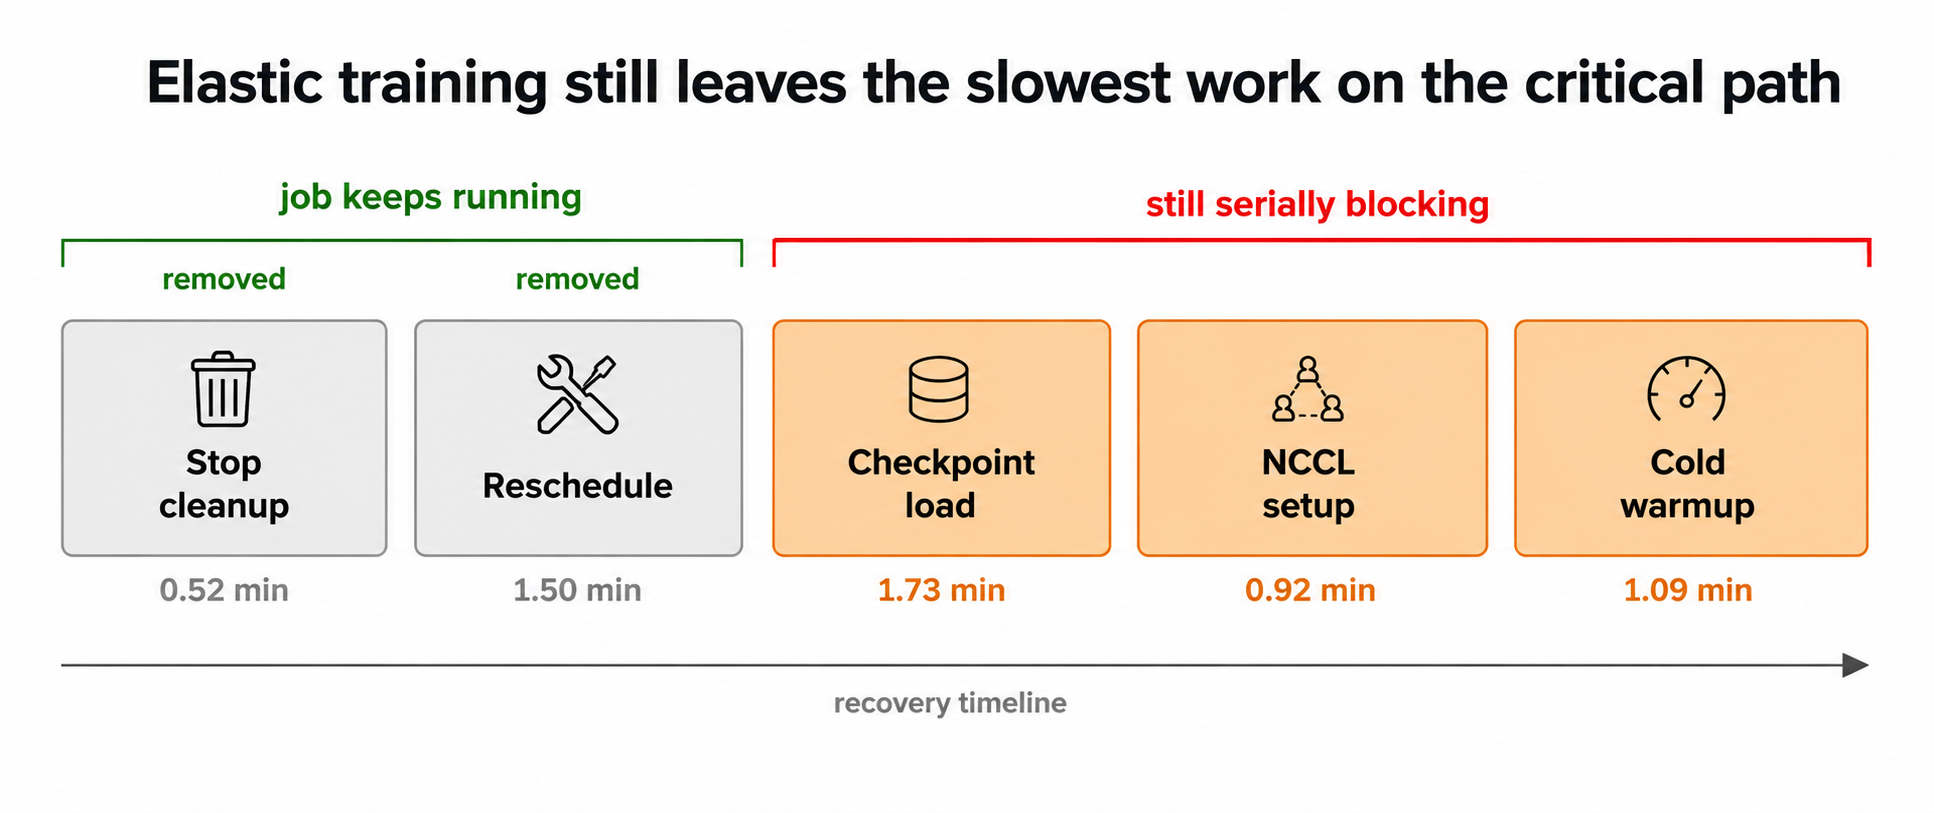
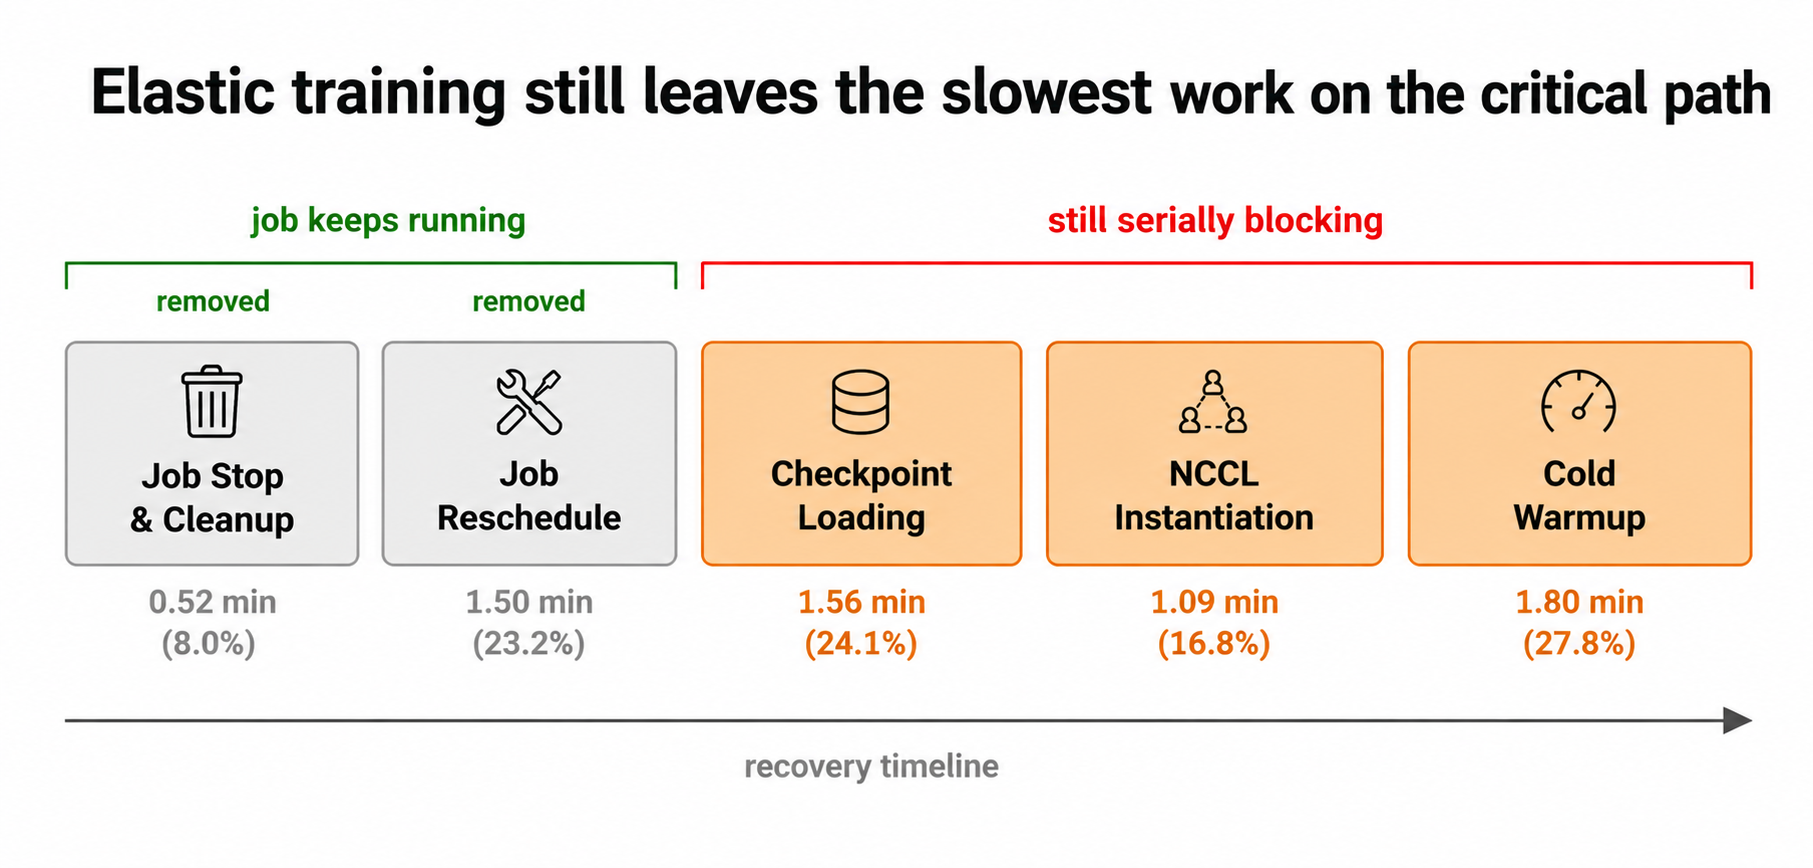
fix the data

diff --git a/src/content/posts/continuum-blog.md b/src/content/posts/continuum-blog.md
@@ -1,5 +1,5 @@
 ---
-title: "When Your AI Training Cluster Crashes at 3 AM: How We Cut Recovery Time to 20 Seconds"
+title: "When Your AI Training Cluster Crashes at 3 AM: Cutting Recovery Time to 20 Seconds"
 slug: continuum-blog
 description: "An educational deep-dive into interruption resilience for large-scale LLM training, and how TrainMover (OSDI '26) reduces downtime to ~20 seconds with zero memory overhead."
 category:
@@ -15,16 +15,16 @@ coverAlt: TrainMover Overview — Two-phase machine migration design
 author: ChonLam Lao
 ---
 
-<p>
+<!-- <p>
 <strong>By: <a href="https://laochanlam.com/">ChonLam Lao</a>, <a href="https://jqgao.me/">Jiaqi Gao</a> and the TrainMover team
-<br>
+<br> -->
 Date: May 14, 2026
 </strong>
 </p>
 
 <div class="tldr">
 <p>
-Training a large language model is a weeks-long marathon across thousands of GPUs. When something breaks — and something always breaks — every GPU stops and waits. We explore why failures are unavoidable at production scale, why recovery is so slow today, and how <strong>TrainMover</strong> — accepted at <strong>OSDI '26</strong> — cuts recovery downtime to <strong>~20 seconds</strong> with <strong>zero additional GPU memory</strong>.
+Training a large language model is a weeks-long marathon across thousands of GPUs. When something breaks — and something always breaks — every GPU stops and waits. This post explores why failures are unavoidable at production scale, why recovery is so slow today, and how <strong>TrainMover</strong> — accepted at <strong>OSDI '26</strong> — cuts recovery downtime to <strong>~20 seconds</strong> with <strong>zero additional GPU memory</strong>.
 </p>
 <p>
 <!-- 📄 Paper: <a href="https://arxiv.org/abs/2412.12636">TrainMover: An Interruption-Resilient Runtime for ML Training</a> <em>(arXiv version; final version to appear at OSDI '26)</em> -->
@@ -35,7 +35,7 @@ Training a large language model is a weeks-long marathon across thousands of GPU
 
 Training a large language model is not a single button press. It is a weeks-long marathon, spread across thousands of GPUs, running in perfect synchrony. When something breaks — and something always breaks — every GPU in the cluster stops and waits. The bill keeps running.
 
-This post explains why this problem is harder than it sounds, why existing approaches leave significant performance on the table, and how our system **TrainMover** reduces interruption downtime to around **20 seconds** — a 10× improvement over prior approaches — while using **zero additional GPU memory**.
+This post explains why this problem is harder than it sounds, why existing approaches leave significant performance on the table, and how **TrainMover** reduces interruption downtime to around **20 seconds** — a 10× improvement over prior approaches — while using **zero additional GPU memory**.
 
 ---
 
@@ -53,27 +53,19 @@ This creates a brutal property: **a single failure halts the entire cluster.**
 
 And failures are not rare. Alibaba's FALCON [^4] reports that 60% of large-scale training jobs experience hardware slowdowns. Meta reports that a 1,024-GPU job has a mean-time-to-failure (MTTF) of just **7.9 hours** [^5]. At 16,000 GPUs, that drops to **2.7 hours** [^1].
 
-The consequences compound with scale:
-
-| Cluster Size | ETTR (Effective Training Time Ratio) | Daily Cost Wasted |
-|:---:|:---:|:---:|
-| 8K GPUs | ~60% | ~$0.58M |
-| 16K GPUs | ~83.5% | significant |
-| 64K GPUs | ~68.2% | ~$3.63M/day |
-
-> **ETTR** is the fraction of time the cluster is actually making training progress, rather than restarting or recovering. An ETTR of 0.6 means 40% of your GPU time is wasted.
-
-The financial stakes are enormous. Training across 16K GPUs with AWS pricing costs $1.44M per day [^12]. A single interruption on an 8,192-GPU job — even with a fully automated recovery stack [^1] — incurs **6.47 minutes of downtime** and **$86,000 in daily waste**.
+The financial stakes are enormous. Training across 16K GPUs with AWS pricing costs $1.44M per day [^12]. A single interruption on an 8,192-GPU job — even with a fully automated recovery stack [^1] — incurs **6.47 minutes of downtime**.
 
 What makes this especially alarming is how non-linearly the damage scales. A restart time of just a few minutes looks tolerable in isolation — but combine it with the MTTF of a large cluster and you get a collapse in effective throughput that accelerates as you add more GPUs.
 
 <p align="center">
-<img src="https://raw.githubusercontent.com/uccl-project/uccl-project.github.io/continuum-blog-post/assets/continuum-blog/scale-throughput-loss.png" alt="Impact of downtime on ETTR at different GPU scales" width="75%"/>
+<img src="/continuum-blog/scale-throughput-loss.png" alt="Impact of downtime on ETTR at different GPU scales" width="75%"/>
 <br>
 <em>ETTR (Effective Training Time Ratio) as a function of cluster scale. Even a fixed per-interruption downtime causes throughput efficiency to collapse at production scales — Llama 3 (16K GPUs) and Grok 3 (80K+) operate deep in the red zone. Reducing downtime from minutes to seconds shifts the entire curve upward.</em>
 </p>
 
-This is the "downtime optimization space" — the gap between where training efficiency is today and where it could be with fast recovery. At 64K GPUs it represents **$3.63M per day** in wasted compute [^3] [^6]. TrainMover's goal is to reclaim it.
+> **ETTR** is the fraction of time the cluster is actually making training progress, rather than restarting or recovering. An ETTR of 0.6 means 40% of your GPU time is wasted.
+
+This is the "downtime optimization space" — the gap between where training efficiency is today and where it could be with fast recovery. At 64K GPUs it represents **$0.95M per day** in wasted compute [^3] [^6]. TrainMover's goal is to reclaim it.
 
 ---
 
@@ -83,24 +75,24 @@ When a machine fails, operators need to bring in a healthy replacement. The new 
 
 | Phase | Avg. Time | % of Total |
 |:---|:---:|:---:|
-| Job Stop & Cleanup | 0.52 min | 7.7% |
-| Job Reschedule | 1.50 min | 23.1% |
-| Checkpoint Loading | 1.73 min | 26.5% |
-| NCCL Instantiation | 0.92 min | 14.1% |
-| Cold Warmup (CUDA/JIT/etc.) | 1.09 min | 16.7% |
+| Job Stop & Cleanup | 0.52 min | 8.0% |
+| Job Reschedule | 1.50 min | 23.2% |
+| Checkpoint Loading | 1.56 min | 24.1% |
+| NCCL Instantiation | 1.09 min | 16.8% |
+| Cold Warmup (CUDA/JIT/etc.) | 1.80 min | 27.8% |
 | **TOTAL** | **6.47 min** | **100%** |
 
 Each phase deserves attention:
 
-**1. Job Stop & Cleanup (7.7%):** When an interruption is detected, the management system halts the training job and cleans up all servers — stopping the training framework, disconnecting remote storage, finalizing logs, and removing temporary data. Even this "bookkeeping" step costs over 30 seconds at scale.
+**1. Job Stop & Cleanup (8.0%):** When an interruption is detected, the management system halts the training job and cleans up all servers — stopping the training framework, disconnecting remote storage, finalizing logs, and removing temporary data. Even this "bookkeeping" step costs over 30 seconds at scale.
 
-**2. Job Reschedule (23.1%):** The affected machines are blacklisted or offlined and returned to the server pool. The job is then rescheduled: the system selects candidate replacement servers, runs health checks, configures the virtualized network, launches containers, and reinitializes monitoring and logging services. This coordination across the infrastructure stack accounts for nearly a quarter of total restart time.
+**2. Job Reschedule (23.2%):** The affected machines are blacklisted or offlined and returned to the server pool. The job is then rescheduled: the system selects candidate replacement servers, runs health checks, configures the virtualized network, launches containers, and reinitializes monitoring and logging services. This coordination across the infrastructure stack accounts for nearly a quarter of total restart time.
 
-**3. Checkpoint Loading (26.5%):** Model weights and optimizer states — potentially hundreds of gigabytes — must be fetched from remote storage and loaded onto GPU memory. This cost scales directly with model size and dominates for large models; loading a 175B-parameter model alone can take several minutes.
+**3. Checkpoint Loading (24.1%):** Model weights and optimizer states — potentially hundreds of gigabytes — must be fetched from remote storage and loaded onto GPU memory. This cost scales directly with model size and dominates for large models; loading a 175B-parameter model alone can take several minutes.
 
-**4. NCCL Instantiation (14.1%):** Every parallelism dimension (DP, PP, TP) requires its own NCCL communication group. Forming these groups requires multi-round handshakes, topology discovery, and connection establishment across all nodes. At 1,000 machines, the number of connections scales as 1,000 × (# of CCL groups) × (# of channels per group) — all globally synchronized, with no shortcut.
+**4. NCCL Instantiation (16.8%):** Every parallelism dimension (DP, PP, TP) requires its own NCCL communication group. Forming these groups requires multi-round handshakes, topology discovery, and connection establishment across all nodes. At 1,000 machines, the number of connections scales as 1,000 × (# of CCL groups) × (# of channels per group) — all globally synchronized, with no shortcut.
 
-**5. Cold Warmup (16.7%):** Modern training frameworks rely on hardware-aware optimizations — JIT-compiled CUDA kernels, memory-layout specialization, fused operators — that only activate when **real data arrives**. The first training iteration is up to 6× slower than steady state. In pipeline-parallel training, each stage depends on the previous stage completing its P2P communication before it can proceed, so this cascades serially across all pipeline stages.
+**5. Cold Warmup (27.8%):** Modern training frameworks rely on hardware-aware optimizations — JIT-compiled CUDA kernels, memory-layout specialization, fused operators — that only activate when **real data arrives**. The first training iteration is up to 6× slower than steady state. In pipeline-parallel training, each stage depends on the previous stage completing its P2P communication before it can proceed, so this cascades serially across all pipeline stages.
 
 The cruel irony: **every one of these phases happens on the critical path**, with every other GPU in the cluster sitting idle, waiting for the joiner to be ready.
 
@@ -118,7 +110,7 @@ The simplest answer: when an interruption occurs, stop the job, remove the bad m
 
 Recognizing this waste, researchers proposed a different angle: rather than stopping the entire job, enable *runtime reconfiguration* via elastic training systems. Academic proposals like Oobleck [^7], Parcae [^8], and ReCycle [^9] take this approach: when a machine goes down, the job continues at reduced throughput with −1 machine, and a replacement is added back (+1) once one becomes available — no full restart needed.
 
-This cleverly eliminates the infrastructure overhead at the top of the restart table — **Job Stop & Cleanup (7.7%)** and **Job Reschedule (23.1%)** are avoided entirely, since the job never stops. But the recovery time is not actually reduced: the new joiner still must go through checkpoint loading, NCCL re-instantiation, and cold warmup from scratch before it can contribute — and even with a reconfiguration system, every other machine in the cluster must wait for it. The critical path is the same; you just skipped the preamble.
+This cleverly eliminates the infrastructure overhead at the top of the restart table — **Job Stop & Cleanup (8.0%)** and **Job Reschedule (23.2%)** are avoided entirely, since the job never stops. But the recovery time is not actually reduced: the new joiner still must go through checkpoint loading, NCCL re-instantiation, and cold warmup from scratch before it can contribute — and even with a reconfiguration system, every other machine in the cluster must wait for it. The critical path is the same; you just skipped the preamble.
 
 <p align="center">
 <img src="/continuum-blog/strategy2-critical-path.png" alt="Strategy 2 eliminates the preamble but leaves the heaviest phases on the critical path" width="80%"/>
@@ -179,7 +171,7 @@ We won't go into the full design here — the paper has all the details.
 
 ## Part 6: Results
 
-We evaluated TrainMover on a **1,024-GPU testbed** across models from GPT-2.7B to GPT-175B Dense and MoE models up to 5.12T parameters.
+TrainMover was evaluated on a **1,024-GPU testbed** across models from GPT-2.7B to GPT-175B Dense and MoE models up to 5.12T parameters.
 
 ### Downtime at Scale
 
@@ -195,11 +187,10 @@ TrainMover's downtime grows by less than 10 seconds from 32 → 1,024 GPUs. Mega
 
 ### GPU-Hour Waste at Production Scale
 
-Based on our projections from the 1,024-GPU testbed measurements, at 64K GPUs — a realistic production deployment:
+Based on projections from the 1,024-GPU testbed measurements, at 64K GPUs deployment:
 
-- TrainMover reduces wasted GPU hours by **55%** vs. the best alternative
-- This saves **1.4 million GPU-hours per week**
-- At 128K GPUs, projected weekly waste with a standby machine drops by **~95%** relative to Megatron-LM
+- TrainMover reduces wasted GPU hours by **~91%** compared to Megatron-LM
+- This saves **~2.1 million GPU-hours per week** over Megatron-LM
 
 ### Beyond Fault Tolerance
 
@@ -213,7 +204,7 @@ Full results for each use case are in the paper.
 
 ---
 
-## What We Learned
+## Key Takeaways
 
 **Interruptions are the norm, not the exception.** Data center events — maintenance, rebalancing, preemptions, hardware failures — average roughly one per hour at 100K+ GPU scale. The question is never *whether* your cluster will be disrupted, but how quickly it recovers.
 
@@ -227,11 +218,11 @@ Full results for each use case are in the paper.
 
 ## Conclusion
 
-TrainMover achieves **20–30 seconds of migration downtime** at 1,024-GPU scale with **zero memory overhead**, handling both planned data center events and unexpected hardware failures. **Accepted at OSDI '26** — we will be open-sourcing the implementation soon. If you want to know the challenges we faced and how we solved them, check our [arXiv](https://arxiv.org/abs/2412.12636) or come find us at OSDI '26 in Seattle — happy to see you in person!
+TrainMover achieves **~20 seconds of migration downtime** at 1,024-GPU scale with **zero memory overhead**, handling both planned data center events and unexpected hardware failures. **Accepted at OSDI '26** — the implementation will be open-sourced soon. For the full technical details, check the [arXiv paper](https://arxiv.org/abs/2412.12636) or find the team at OSDI '26 in Seattle!
 
 ---
 
-*Questions or thoughts? Reach out to the TrainMover team: ChonLam Lao \<chonlamlao@gmail.com\>, Jiaqi Gao \<gaojiaqi0@gmail.com\>.*
+*Questions or thoughts? Reach out to the TrainMover team!*
 
 ---
 
